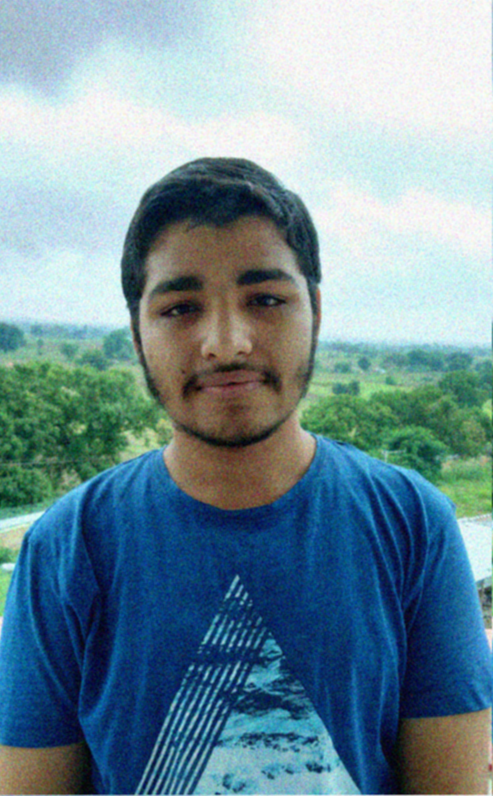
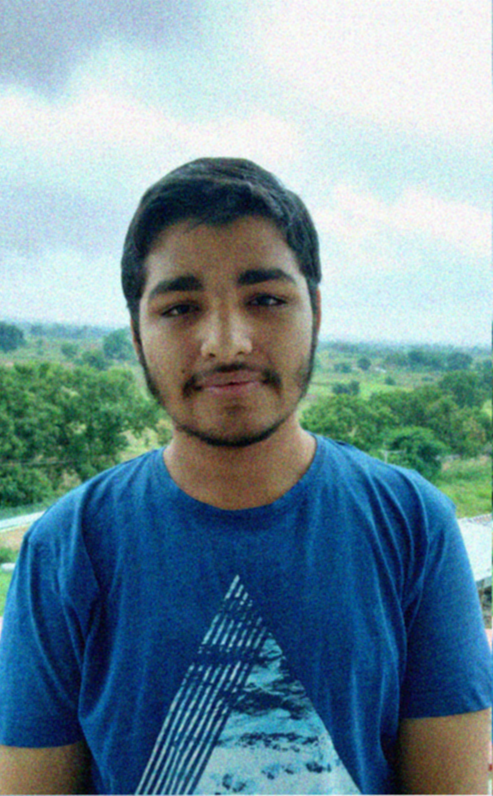
Saving noisy and filtered image on the first execution of the image

Changed region(s): [[0.4868, 0.6633, 0.5172, 0.6935], [0.2434, 0.5126, 0.2738, 0.5427], [0.1521, 0.4523, 0.1826, 0.4824]]

diff --git a/plow-filter.py b/plow-filter.py
@@ -55,15 +55,11 @@ def wiener_filter(img, kernel, K):
 
 if __name__ == '__main__':
     filename = os.path.join(os.getcwd(), './Noisy Image/photo.png')
-    gaussian_noise_image = os.path.join(os.getcwd(), './Noisy Image/gaussian_noise.png')
 
     myPhoto = io.imread(filename)
 
     # Code to create a gaussian noisy image
-    #gaussian_noise = add_gaussian_noise(myPhoto, 20)
-    #io.imsave('./Noisy Image/gaussian_noise.png', gaussian_noise)
-
-    gaussian_noise_image = io.imread(gaussian_noise_image)
+    gaussian_noise_image = add_gaussian_noise(myPhoto, 20)
 
     kernel = gaussian_kernel(3)
 
@@ -92,4 +88,6 @@ if __name__ == '__main__':
     print("PSNR for noisy image: {}".format(PSNR(myPhoto, gaussian_noise_image)))
     print("PSNR for filtered image: {}".format(PSNR(myPhoto, filtered_image)))
 
-    #io.imsave('./Restored Images/restored.png', filtered_image)
+    # Saving the noisy and restored image
+    io.imsave('./Noisy Image/gaussian_noise.png', gaussian_noise_image)
+    io.imsave('./Restored Images/restored.png', filtered_image)
